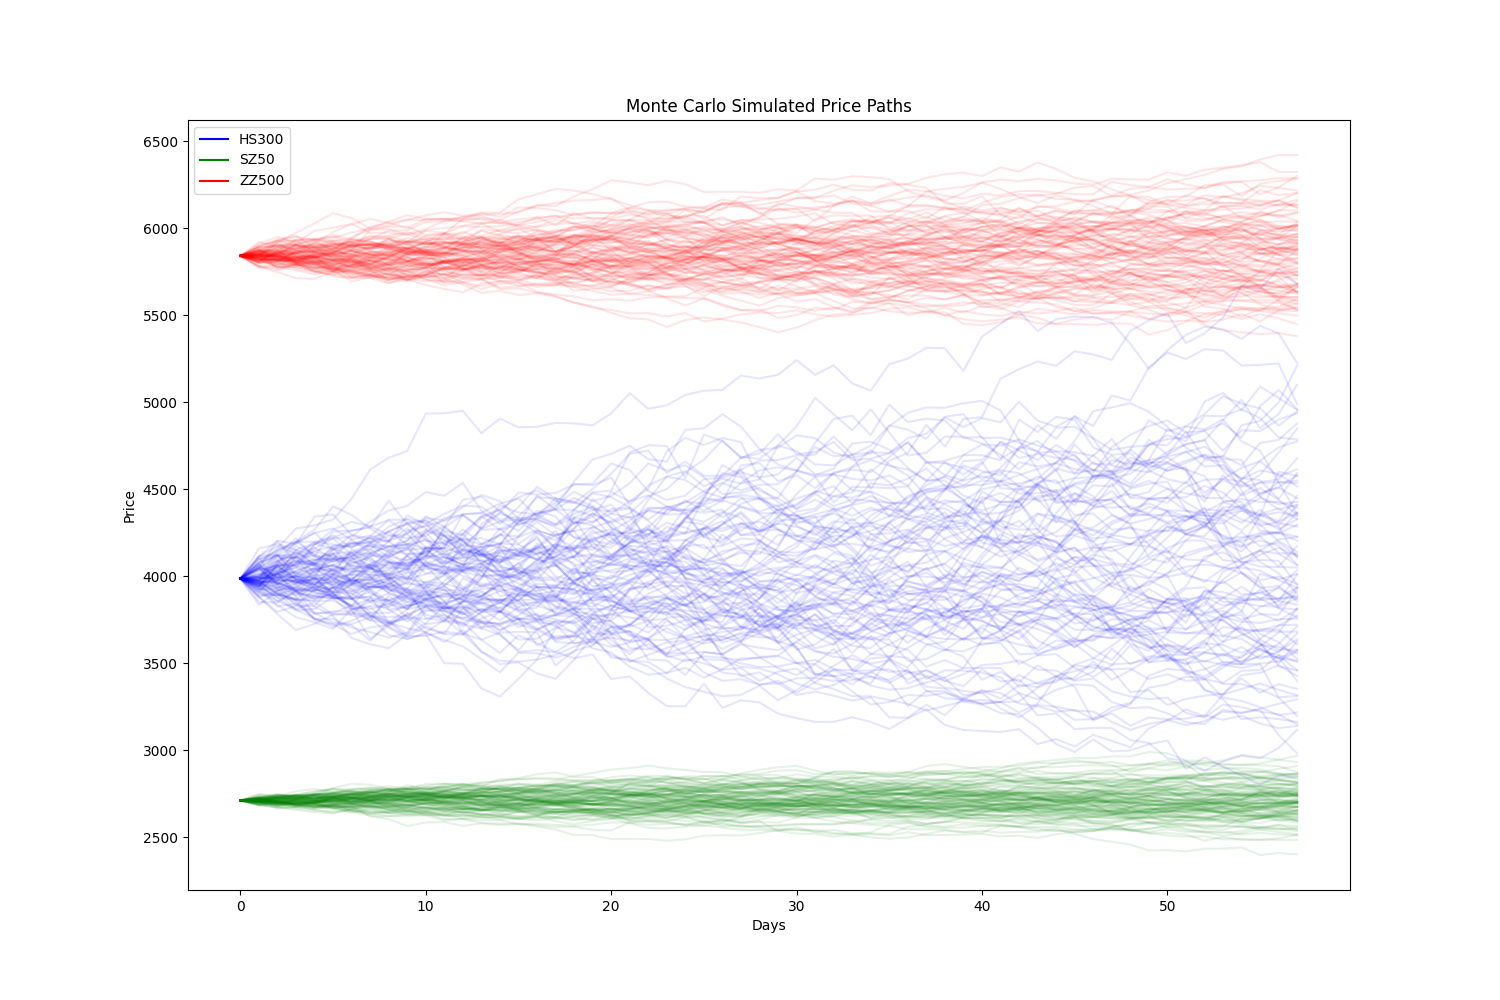
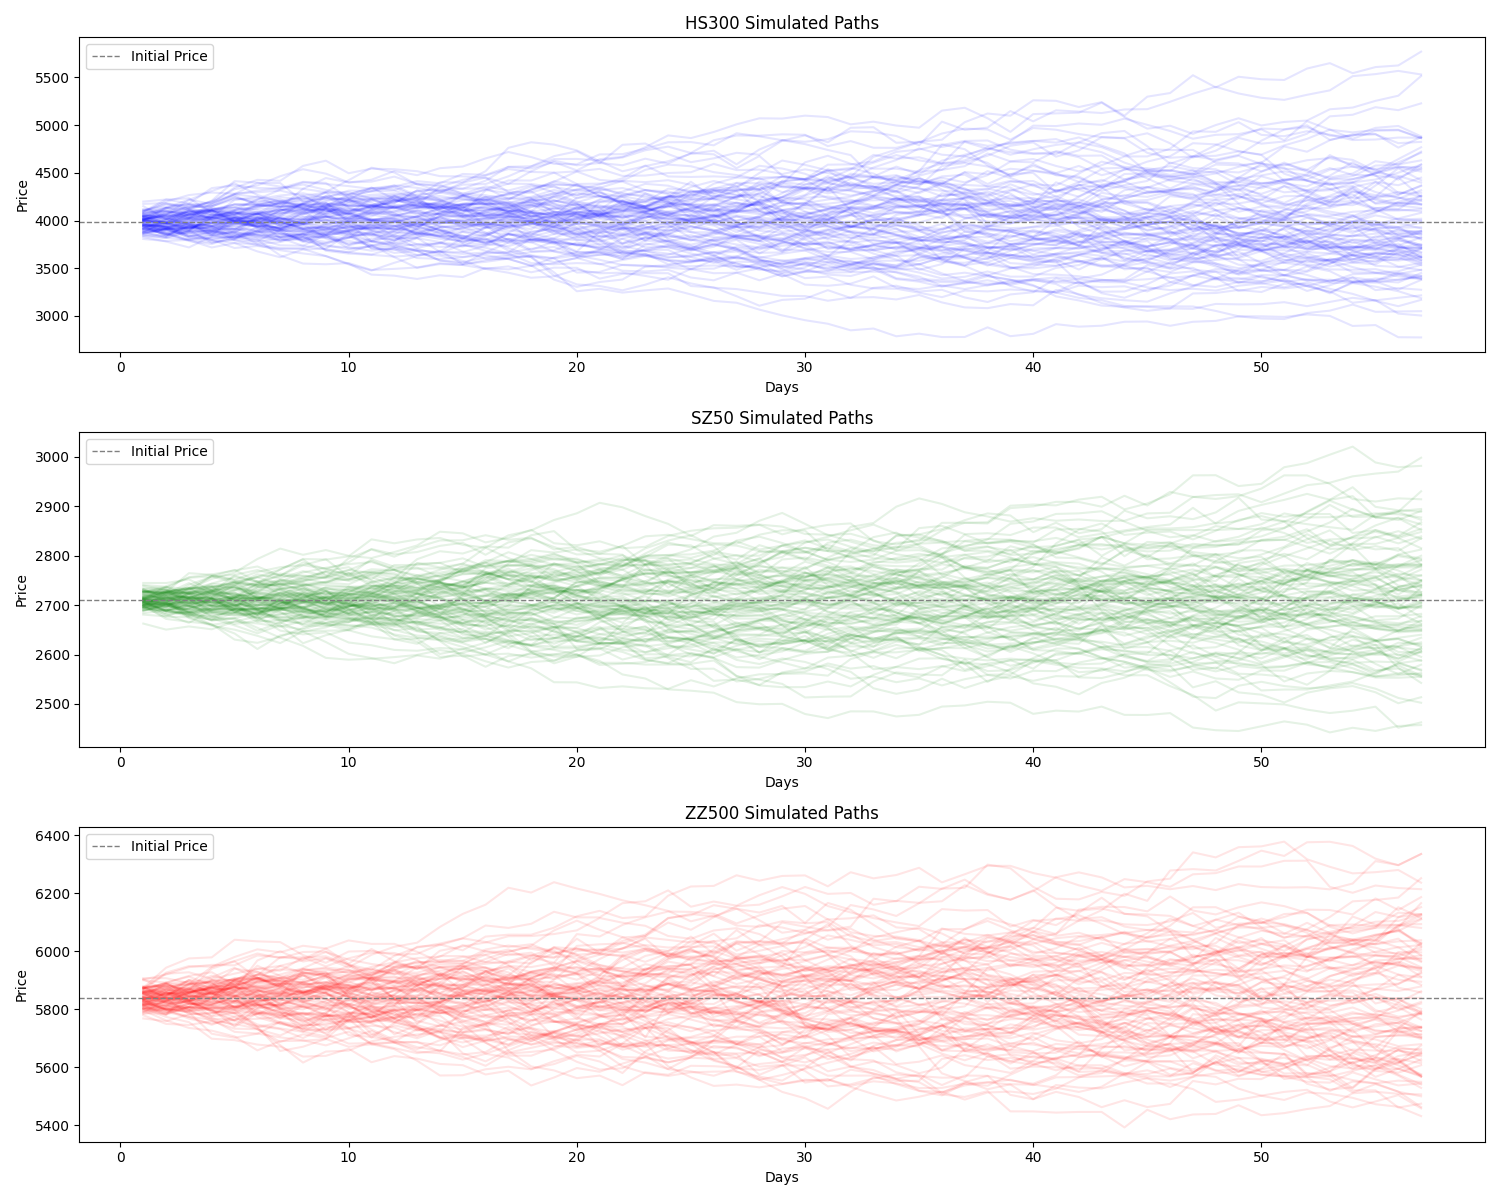
Add files via upload

diff --git a/index_simulation.py b/index_simulation.py
@@ -1,10 +1,10 @@
 import pandas as pd
 import numpy as np
 from arch import arch_model
-import matplotlib.pyplot as plt
 from scipy.linalg import cholesky
 import openpyxl
 import io
+import matplotlib.pyplot as plt
 
 # Step 1: Load and preprocess data
 with open("databank.xlsx", "rb") as file:
@@ -30,6 +30,15 @@ def garch_forecast(returns, horizon=57, window=252):
 vol_hs300 = garch_forecast(log_returns['HS300'])
 vol_sz50 = garch_forecast(log_returns['SZ50'])
 vol_zz500 = garch_forecast(log_returns['ZZ500'])
+
+# Save GARCH forecast results to Excel
+forecast_data = {
+    'HS300': vol_hs300,
+    'SZ50': vol_sz50,
+    'ZZ500': vol_zz500
+}
+forecast_df = pd.DataFrame(forecast_data)
+forecast_df.to_excel('garch_forecast_results.xlsx', index=False)
 
 # Step 2: Compute correlation matrix
 corr_matrix = log_returns.corr()
@@ -70,12 +79,12 @@ for t in range(1, n_days + 1):
     simulated_paths['ZZ500'][:, t] = simulated_paths['ZZ500'][:, t-1] * np.exp(log_ret[:, 2])
 
 # Save simulation results to Excel
-excel_data = {}
-for index in ['HS300', 'SZ50', 'ZZ500']:
-    for t in range(n_days + 1):
-        excel_data[f'{index}_Day_{t}'] = simulated_paths[index][:, t]
-sim_df = pd.DataFrame(excel_data)
-sim_df.to_excel('monte_carlo_simulations.xlsx', index=False)
+# excel_data = {}
+# for index in ['HS300', 'SZ50', 'ZZ500']:
+#     for t in range(n_days + 1):
+#         excel_data[f'{index}_Day_{t}'] = simulated_paths[index][:, t]
+# sim_df = pd.DataFrame(excel_data)
+# sim_df.to_excel('monte_carlo_simulations.xlsx', index=False)
 
 # Plot sample paths (first 100 for clarity)
 plt.figure(figsize=(15, 10))
@@ -100,7 +109,9 @@ for t in range(n_days + 1):
     ])
     knock_out |= np.max(ratios, axis=0) >= 1.12
 knock_out_count = np.sum(knock_out)
-print(f"Number of knock-out events: {knock_out_count}")
+knock_out_rate = knock_out_count / n_simulations * 100
+print(f"Knock-out count: {knock_out_count}")
+print(f"Knock-out rate: {knock_out_rate:.2f}%")
 
 # Step 6: Compute terminal yields for non-knock-out paths
 non_knock_out = ~knock_out
@@ -118,4 +129,23 @@ basket_performance = np.max([
 # Step 7: Calculate final yield for non-knock-out paths
 final_yield = 1.2 * np.maximum(0, basket_performance - 1.02)
 mean_final_yield = np.mean(final_yield)
-print(f"Mean final yield for non-knock-out paths: {mean_final_yield:.4f}")
+print(f"Average final yield for non-knock-out paths: {mean_final_yield*100:.2f}%")
+if len(final_yield) > 0:
+    print(f"Maximum final yield for non-knock-out paths: {np.max(final_yield)*100:.2f}%")
+    print(f"Minimum final yield for non-knock-out paths: {np.min(final_yield)*100:.2f}%")
+    print(f"Median final yield for non-knock-out paths: {np.median(final_yield)*100:.2f}%")
+
+# Plot simulated paths for three indices in subplots with English labels
+plt.figure(figsize=(15, 12))
+for i, (index, color, title) in enumerate(zip(['HS300', 'SZ50', 'ZZ500'], ['blue', 'green', 'red'], ['HS300', 'SZ50', 'ZZ500'])):
+    plt.subplot(3, 1, i+1)
+    for n in range(100):
+        plt.plot(range(1, n_days + 1), simulated_paths[index][n, 1:], color=color, alpha=0.1)
+    plt.axhline(initial_prices[i], color='gray', linestyle='--', linewidth=1, label='Initial Price')
+    plt.title(f'{title} Simulated Paths')
+    plt.xlabel('Days')
+    plt.ylabel('Price')
+    plt.legend()
+plt.tight_layout()
+plt.savefig('price_paths.png')
+plt.close()
